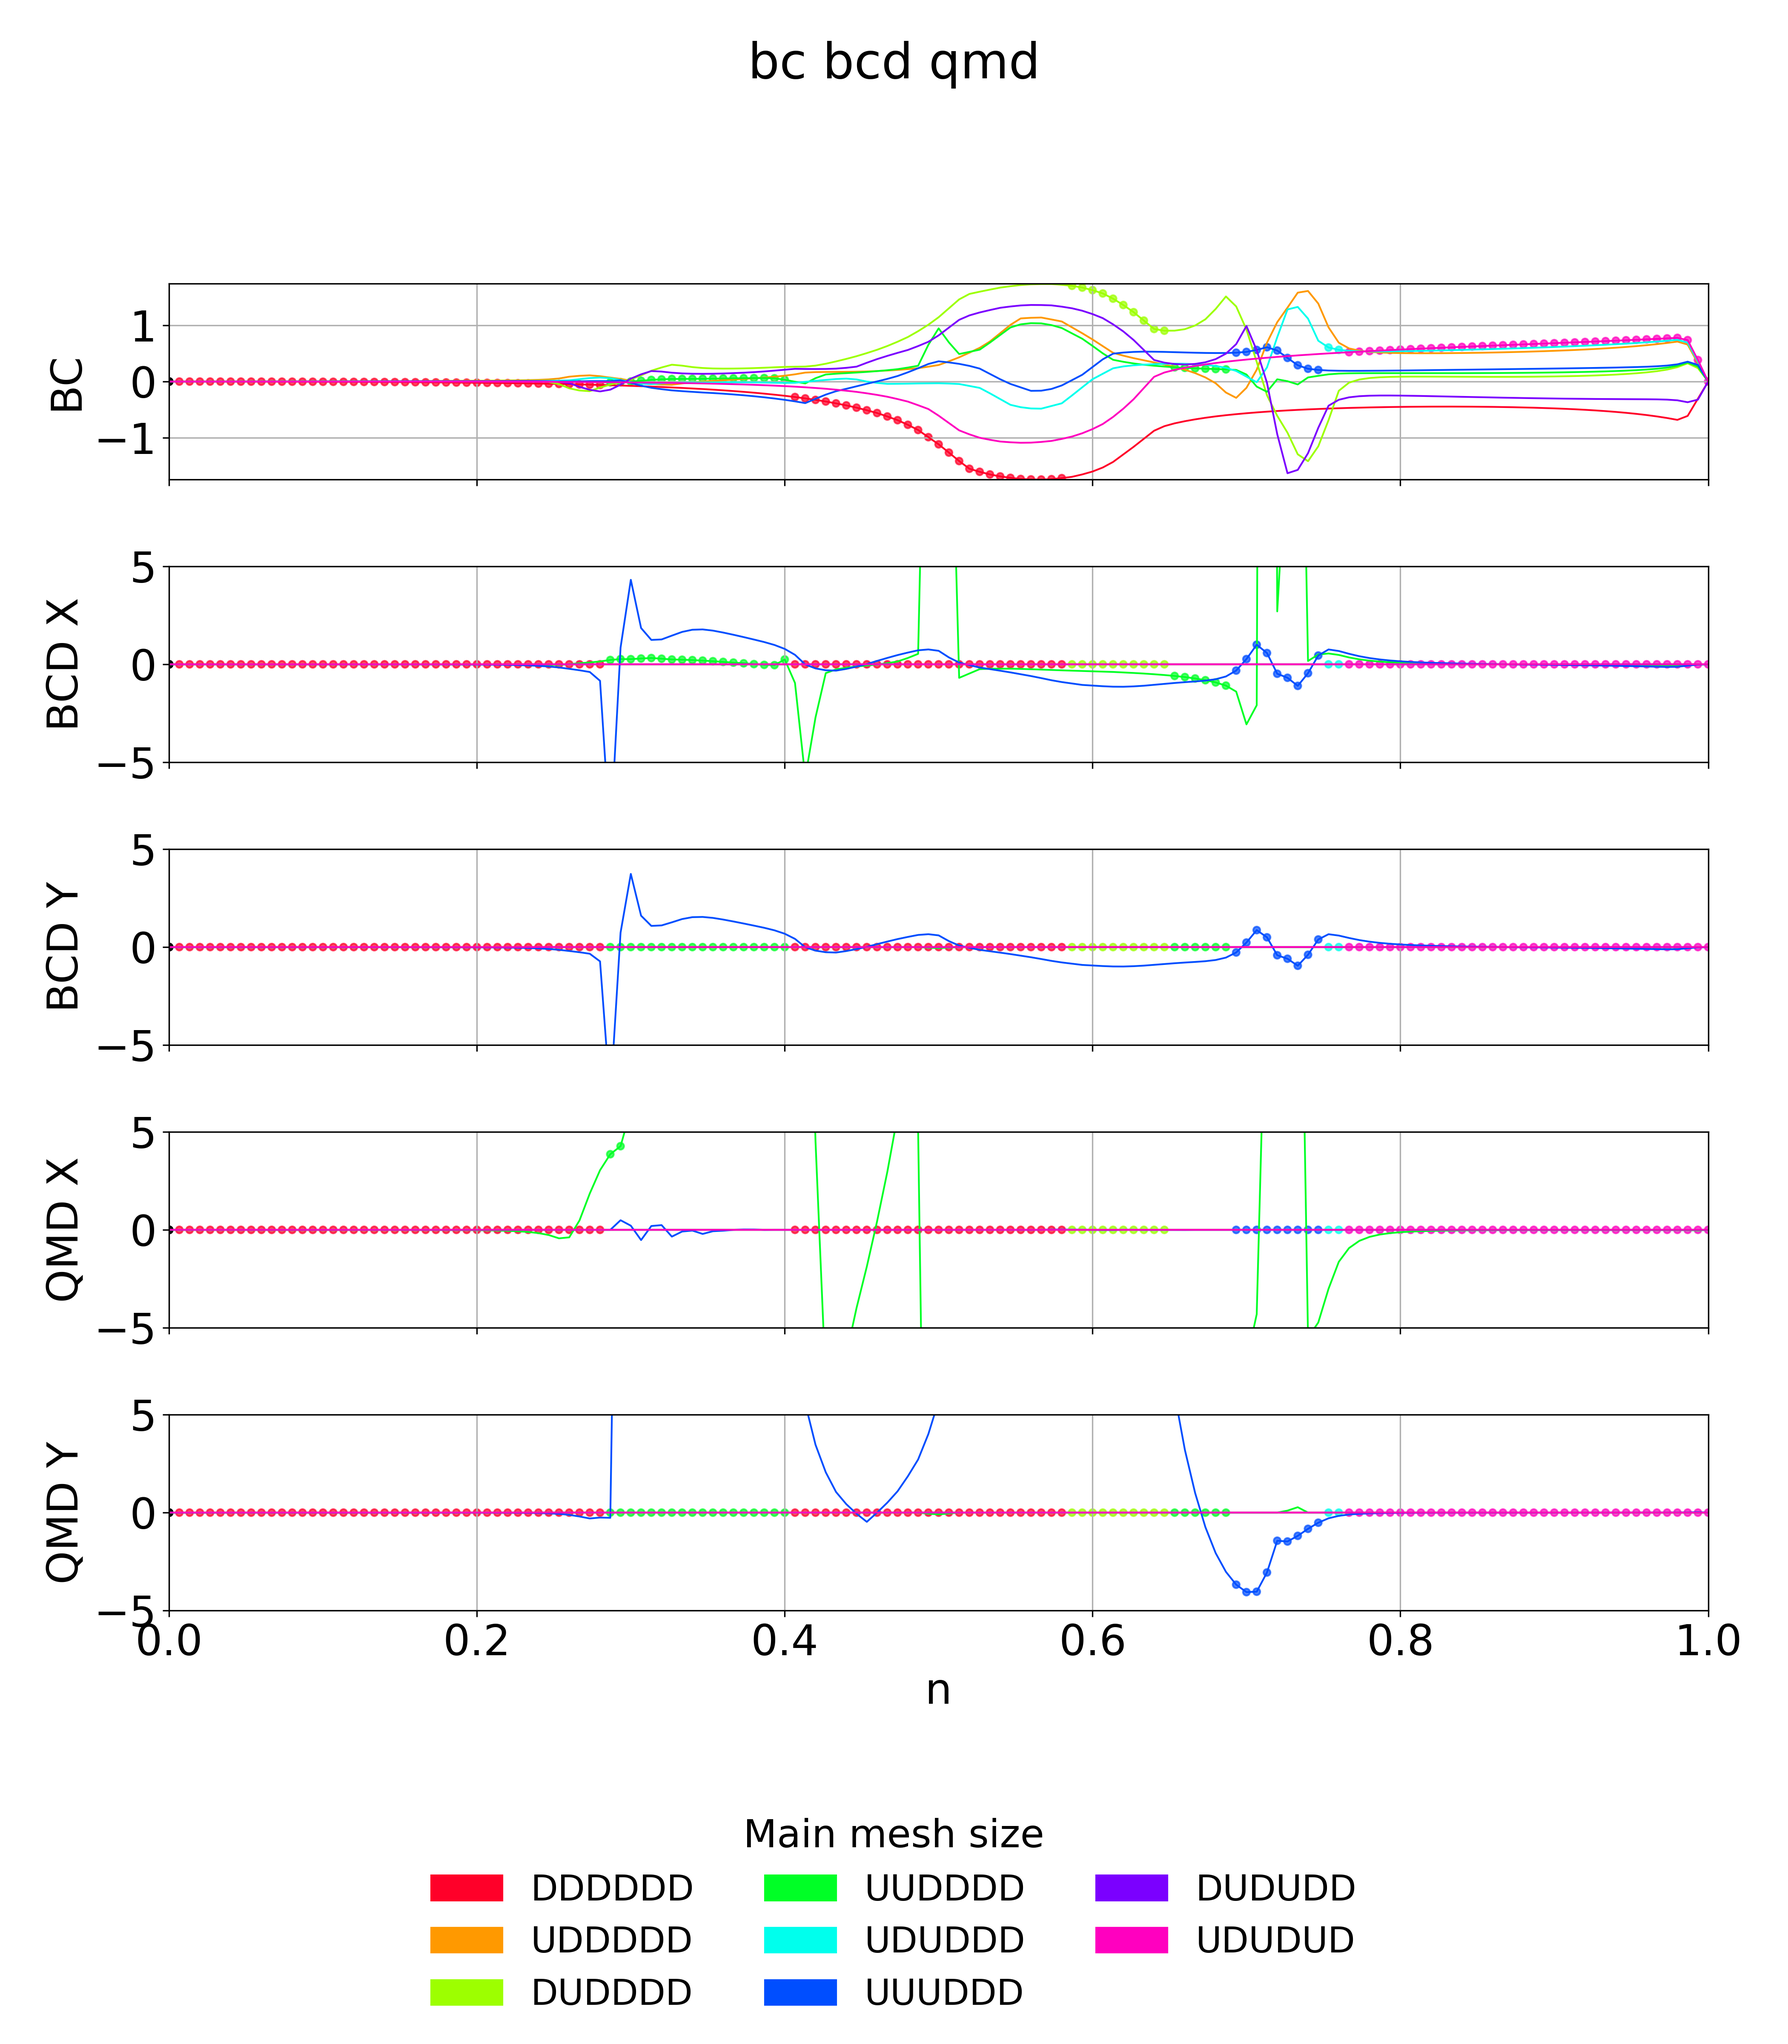
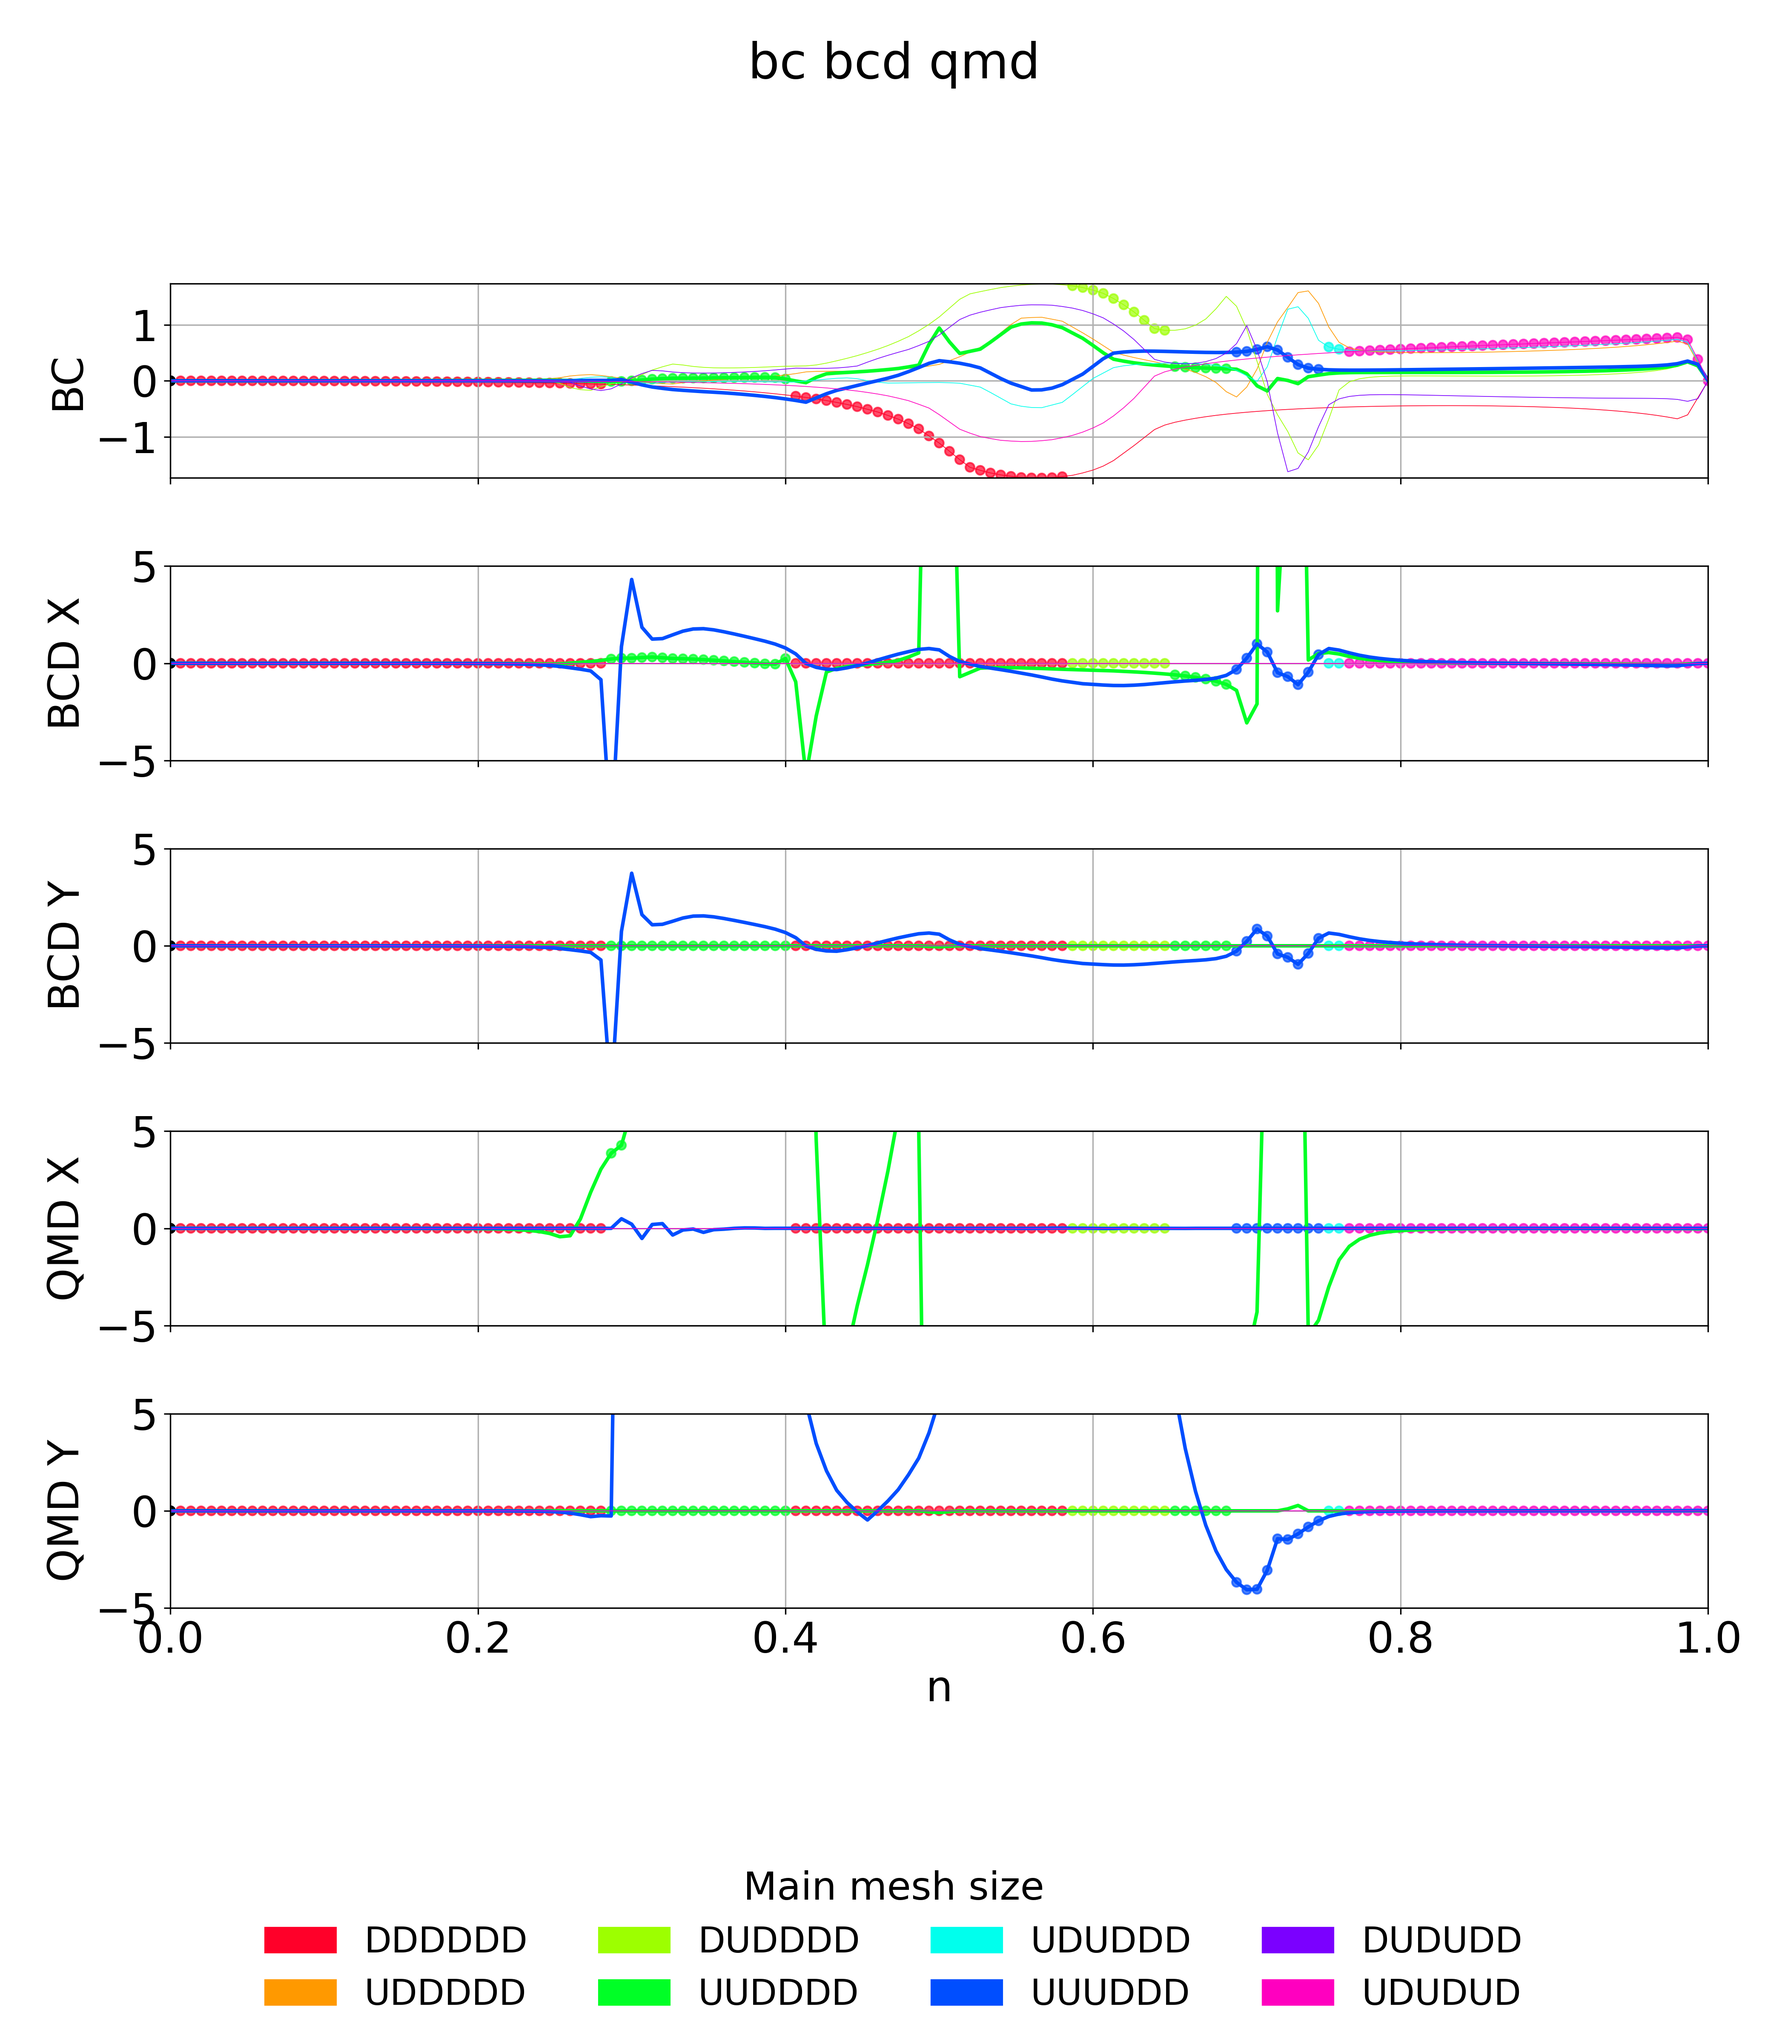
updat plot

diff --git a/out_tanzaku/plot_tanzaku_filling_stable.py b/out_tanzaku/plot_tanzaku_filling_stable.py
@@ -58,13 +58,14 @@ file_list = [
     create_filename_base_2(spin_names[8], lam, j, mesh, mesh, div, threshold_berry, main_mesh,"compare_6_spinmodel"),
 ]
 
-labels = ["DDDDDD","UDDDDD","DUDDDD","UUDDDD","UDUDDD","UUUDDD","DUDUDD","UDUDUD","Most stable"]
+labels = ["DDDDDD"   ,"UDDDDD"     ,"DUDDDD"    ,"UUDDDD"    ,"UDUDDD"    ,"UUUDDD"    ,"DUDUDD"    ,"UDUDUD"     ,"Most stable"]
+colors = cm.gist_rainbow(np.linspace(0, 1, 8))
 
 out_title = f"stable_lambda{lam}_j{j}_rev2"
 
 # ==== 色設定 ====
 num_files = len(file_list) -1
-colors = cm.gist_rainbow(np.linspace(0, 1, num_files))
+
 
 # ==== matplotlib全体のフォントサイズ設定 ====
 plt.rcParams['font.size'] = 24
@@ -91,7 +92,11 @@ stable_df = pd.read_csv(file_list[-1], comment='#', header=None,
 for i in range(len(file_list) - 1):  # stableを除く
     color = colors[i]
     df = dfs[i]
-    line_width = 1
+    line_width = 0.4
+
+    if labels[i] == "UUUDDD" or labels[i] == "UUDDDD":
+        line_width = 2
+
     axes[0].plot(df["n"], df["bc_sum"], color=color, linewidth=line_width)
     axes[1].plot(df["n"], df["bcd_x_sum"], color=color, linewidth=line_width)
     axes[2].plot(df["n"], df["bcd_y_sum"] * 0.5 + df["bcd_x_sum"] * np.sqrt(3) * 0.5, color=color, linewidth=line_width)
@@ -125,7 +130,7 @@ for stable in stable_df["stable"]:
     else:
         colors_for_stable.append('black')  # その他の場合は黒色
     
-marker_size = 15
+marker_size = 25
 
 axes[0].scatter(stable_df["n"], stable_df["bc_sum"], color=colors_for_stable, s=marker_size, alpha=0.7)
 axes[1].scatter(stable_df["n"], stable_df["bcd_x_sum"], color=colors_for_stable, s=marker_size, alpha=0.7)
@@ -178,7 +183,7 @@ fig.legend(
     handles=patches,
     title="Main mesh size",
     loc='lower center',
-    ncol=3,  # 一段表示
+    ncol=4,  # 一段表示
     frameon=False,
     fontsize=20,
     title_fontsize=22
